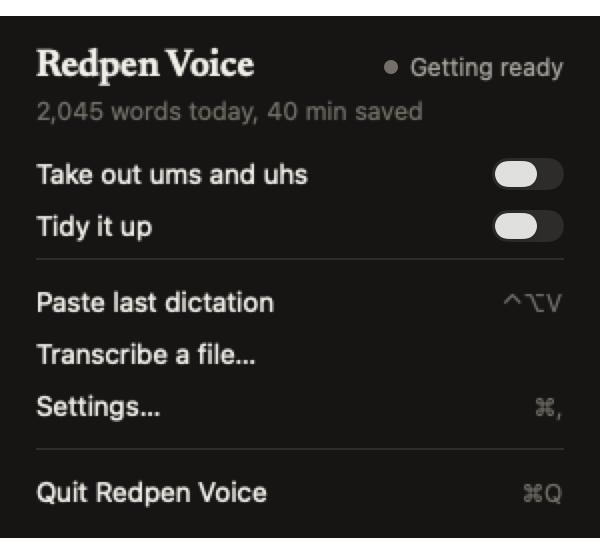
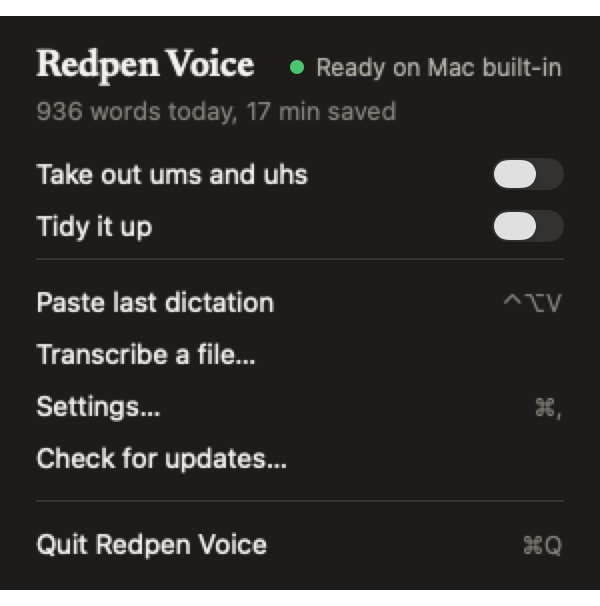
README shows the app to a first-time visitor: download link, the talking bar with live words, how it works in three pictured steps, the five bar styles, the menu, Settings and first run, all drawn from a sample setup; first run says Tidy it up like the rest of the app; Settings status names Instant;

diff --git a/Sources/RedpenVoice/main.swift b/Sources/RedpenVoice/main.swift
@@ -45,8 +45,13 @@ final class AppDelegate: NSObject, NSApplicationDelegate {
         // `--hud-demo [style]` shows the talking bar for four seconds with a fake voice, then two of writing, so its
         // look can be checked on screen.
         if let i = CommandLine.arguments.firstIndex(of: "--hud-demo") {
-            if i + 1 < CommandLine.arguments.count { hud.style = CommandLine.arguments[i + 1] }
+            if i + 1 < CommandLine.arguments.count, !CommandLine.arguments[i + 1].hasPrefix("--") { hud.style = CommandLine.arguments[i + 1] }
             hud.show("", level: true)
+            // `--hud-caption "text"`: words in the bar as you talk (Instant).
+            if let k = CommandLine.arguments.firstIndex(of: "--hud-caption"), k + 1 < CommandLine.arguments.count {
+                let text = CommandLine.arguments[k + 1]
+                DispatchQueue.main.asyncAfter(deadline: .now() + 0.3) { [hud] in hud.caption(text) }
+            }
             var t = 0.0
             Timer.scheduledTimer(withTimeInterval: 0.05, repeats: true) { [hud] _ in
                 t += 0.05
@@ -339,7 +344,10 @@ final class AppDelegate: NSObject, NSApplicationDelegate {
         if let i = CommandLine.arguments.firstIndex(of: "--settings-shot"), i + 1 < CommandLine.arguments.count {
             Ink.registerFonts()
             NSApp.appearance = NSAppearance(named: CommandLine.arguments.contains("dark") ? .darkAqua : .aqua)
-            let v = NSHostingView(rootView: SettingsView(model: SettingsModel(config: config, engine: engine) { _ in }))
+            let model = SettingsModel(config: config, engine: engine) { _ in }
+            // `ready`: drawn as a Mac where the chosen engine has finished loading (for the README pictures).
+            if CommandLine.arguments.contains("ready") { model.engineState = .ready }
+            let v = NSHostingView(rootView: SettingsView(model: model).buttonBorderShape(.roundedRectangle(radius: 4)))
             v.frame = NSRect(x: 0, y: 0, width: 540, height: 2000)
             let w = NSWindow(contentRect: v.frame, styleMask: [.borderless], backing: .buffered, defer: false)
             w.contentView = v; v.layoutSubtreeIfNeeded(); v.display()
@@ -361,17 +369,22 @@ final class AppDelegate: NSObject, NSApplicationDelegate {
             Ink.registerFonts()
             NSApp.appearance = NSAppearance(named: CommandLine.arguments.contains("dark") ? .darkAqua : .aqua)
             menu.state = menuState()
+            // `ready`: drawn as a set-up Mac (engine loaded, Fn key already set), for the README pictures.
+            if CommandLine.arguments.contains("ready") { menu.state.ready = true; menu.state.status = "Ready"; menu.state.warning = nil }
             let v = NSHostingView(rootView: MenuPanel(model: menu))
             v.frame = NSRect(origin: .zero, size: v.fittingSize)
-            let w = NSWindow(contentRect: v.frame, styleMask: [.borderless], backing: .buffered, defer: false)
-            w.contentView = v; v.layoutSubtreeIfNeeded(); v.display()
-            DispatchQueue.main.asyncAfter(deadline: .now() + 0.5) {
-                if let rep = v.bitmapImageRepForCachingDisplay(in: v.bounds) {
-                    v.cacheDisplay(in: v.bounds, to: rep)
-                    try? rep.representation(using: .png, properties: [:])?.write(to: URL(fileURLWithPath: CommandLine.arguments[i + 1]))
-                }
-                exit(0)
-            }
+            Self.shoot(v, to: CommandLine.arguments[i + 1])
+            return
+        }
+        // `--firstrun-shot out.png [dark]` draws the first-run window as a new Mac sees it, nothing allowed yet.
+        if let i = CommandLine.arguments.firstIndex(of: "--firstrun-shot"), i + 1 < CommandLine.arguments.count {
+            Ink.registerFonts()
+            NSApp.appearance = NSAppearance(named: CommandLine.arguments.contains("dark") ? .darkAqua : .aqua)
+            let model = FirstRunModel(config: config, engineState: { "ready" })
+            model.mic = false; model.access = false; model.fnOK = true
+            let v = NSHostingView(rootView: FirstRunView(model: model).buttonBorderShape(.roundedRectangle(radius: 4)))
+            v.frame = NSRect(origin: .zero, size: v.fittingSize)
+            Self.shoot(v, to: CommandLine.arguments[i + 1])
             return
         }
         if CommandLine.arguments.contains("--mics") {
@@ -470,6 +483,22 @@ final class AppDelegate: NSObject, NSApplicationDelegate {
     private var pendingMedia = PendingMedia()
 
     /// Calls back once the apps' sound has gone quiet (checked every tenth of a second), or after `tries` checks.
+    /// Draws a view to a PNG at twice its size, as a Retina screen shows it, then quits. For the README pictures.
+    static func shoot(_ v: NSView, to path: String) {
+        let w = NSWindow(contentRect: v.frame, styleMask: [.borderless], backing: .buffered, defer: false)
+        w.contentView = v; v.layoutSubtreeIfNeeded(); v.display()
+        DispatchQueue.main.asyncAfter(deadline: .now() + 0.5) {
+            if let rep = NSBitmapImageRep(bitmapDataPlanes: nil, pixelsWide: Int(v.bounds.width * 2), pixelsHigh: Int(v.bounds.height * 2),
+                                          bitsPerSample: 8, samplesPerPixel: 4, hasAlpha: true, isPlanar: false, colorSpaceName: .deviceRGB,
+                                          bytesPerRow: 0, bitsPerPixel: 0) {
+                rep.size = v.bounds.size
+                v.cacheDisplay(in: v.bounds, to: rep)
+                try? rep.representation(using: .png, properties: [:])?.write(to: URL(fileURLWithPath: path))
+            }
+            exit(0)
+        }
+    }
+
     nonisolated static func waitForQuiet(_ apps: [AudioObjectID], tries: Int, record: SoundTap.Recording? = nil, done: @escaping @Sendable (Date) -> Void) {
         SoundTap.loudness(of: apps, for: 0.1, record: record) { peak in
             if !MediaGate.isPlaying(peak: peak) || tries <= 0 { done(Date()) } else { waitForQuiet(apps, tries: tries - 1, record: record, done: done) }

diff --git a/Sources/RedpenVoice/FirstRun.swift b/Sources/RedpenVoice/FirstRun.swift
@@ -78,7 +78,7 @@ struct FirstRunView: View {
             HStack(spacing: 12) {
                 choice("Raw words", "What you said, as you said it.", "raw")
                 choice("Ums taken out", "Only sounds like “um” and “uh” go. Every word stays.", "noUms")
-                choice("Rewrite it", "Ums and false starts out, punctuation in. Your words stay.", "rewrite")
+                choice("Tidy it up", "Repeats and false starts out, punctuation in. It can change a word now and then.", "rewrite")
             }
             Text("You can flip this any time from the menu bar.").font(.system(size: 12)).foregroundStyle(.secondary)
 

diff --git a/Sources/RedpenVoice/SettingsWindow.swift b/Sources/RedpenVoice/SettingsWindow.swift
@@ -202,7 +202,7 @@ struct SettingsView: View {
     private var status: some View {
         let (word, live): (String, Bool) = {
             switch model.engineState {
-            case .ready: return ("Ready on " + (model.usesWhisper ? "Whisper" : "Mac built-in"), true)
+            case .ready: return ("Ready on " + (model.usesWhisper ? "Most accurate" : model.usesInstant ? "Instant" : "Mac built-in"), true)
             case .checking: return ("Getting ready", false)
             case .downloading(let p): return ("Downloading \(p)%", false)
             case .unsupported: return ("Language not supported", false)

diff --git a/README.md b/README.md
@@ -4,17 +4,45 @@ A free, private dictation app for macOS, from the Redpen family of writing tools
 
 Everything runs on your Mac. Your voice is never sent anywhere.
 
+**[Download Redpen Voice for Mac](https://github.com/cjaynewton/redpen-voice-mac/releases/latest)** (free, macOS 26, Apple silicon)
+
 <p align="center">
-<picture>
-  <source media="(prefers-color-scheme: dark)" srcset="docs/screenshots/menu-dark.png">
-  <img src="docs/screenshots/menu-light.png" alt="The menu bar panel: status, two switches, paste last dictation, transcribe a file, settings" width="300">
-</picture>
+  <img src="docs/screenshots/bar-live.png" alt="The talking bar at the bottom of the screen: a red pen line moving with your voice, the time, and your words as you say them" width="514">
 </p>
+
+## How it works
+
+1. **Hold Fn or right Option and talk.** A small bar at the bottom of the screen moves with your voice, so you know it's listening. With the Instant engine, your words show in it as you talk.
+2. **Let go.** The words go into the box you were typing in, in any app, without touching your clipboard.
+
+   <img src="docs/screenshots/bar-typed.png" alt="The bar after letting go: a green tick and Typed into Notes, where you started" width="287">
+
+3. **Moved somewhere else while it wrote?** The words never go into the wrong box. They wait until you're back in the one you started in, and Control-Option-V pastes them anywhere.
+
+   <img src="docs/screenshots/bar-saved.png" alt="The bar saying the words are saved for Chrome and go in when you are back in that box, or with Control-Option-V" width="460">
+
+Tap the key twice to keep talking with your hands free, and tap once more to finish.
+
+### Pick the bar you like
+
+<table>
+<tr>
+<td valign="top"><img src="docs/screenshots/bar-pen.png" alt="Red pen line" width="236"><br><b>Red pen line</b><br>A pen line that moves with your voice, and the time.</td>
+<td valign="top"><img src="docs/screenshots/bar-tape.png" alt="Rolling tape" width="270"><br><b>Rolling tape</b><br>Your voice scrolling past, with a recording dot.</td>
+</tr>
+<tr>
+<td valign="top"><img src="docs/screenshots/bar-bars.png" alt="Bars from the middle" width="162"><br><b>Bars from the middle</b><br>Bars that grow from the centre.</td>
+<td valign="top"><img src="docs/screenshots/bar-classic.png" alt="Classic bars" width="160"><br><b>Classic bars</b><br>A level meter, like a recorder.</td>
+</tr>
+<tr>
+<td valign="top"><img src="docs/screenshots/bar-dot.png" alt="Breathing dot" width="112"><br><b>Breathing dot</b><br>Just a dot that breathes, and the time.</td>
+<td valign="top">Or turn the bar off in Settings.</td>
+</tr>
+</table>
 
 ## What it does
 
-- **Hold to talk.** Hold Fn or right Option (or a key you pick), talk, let go. The words are typed at the cursor without touching your clipboard.
-- **Double-tap for hands-free.** Tap the key twice and keep talking with your hands free. Tap once more to finish.
+- **Any key you like.** Fn, right Option, or a key you pick in Settings.
 - **Words appear as you talk.** With Instant, your words show in the bar while you talk and go into the box the moment you let go. With Whisper, each stretch is written at your next pause, so a one-minute dictation lands about 2 seconds after you stop; in a text box the words are typed as you go.
 - **Your words, as said.** By default nothing is rewritten. Two switches change that:
   - **Take out ums and uhs** removes only the sounds. Every word stays.
@@ -33,10 +61,36 @@ Everything runs on your Mac. Your voice is never sent anywhere.
 - **Pauses your music and video** while you talk and starts them again after, only when something is actually playing.
 - **Transcribe a file.** Any audio or video file to text, saved beside the file.
 
+## The menu
+
+Click the Voice icon in the menu bar for today's words and the minutes they saved you, the two switches, Paste last dictation, Transcribe a file, Settings and Check for updates.
+
+<p align="center">
+<picture>
+  <source media="(prefers-color-scheme: dark)" srcset="docs/screenshots/menu-dark.png">
+  <img src="docs/screenshots/menu-light.png" alt="The menu bar panel: status, words today and minutes saved, two switches, paste last dictation, transcribe a file, settings, check for updates" width="300">
+</picture>
+</p>
+
+## Settings
+
+Every choice on one page: the engine, how your words come out, the key you talk with, your microphone, the bar, and your list of words it gets wrong. Each engine shows a real sentence it heard, so you can judge before you download.
+
 <p align="center">
 <picture>
   <source media="(prefers-color-scheme: dark)" srcset="docs/screenshots/settings-dark.png">
-  <img src="docs/screenshots/settings-light.png" alt="Settings: engine, what you get, talking, words it gets wrong" width="360">
+  <img src="docs/screenshots/settings-light.png" alt="Settings: engines named Most accurate, Instant and Mac built-in, what you get, talking, words it gets wrong, and what is kept on this Mac" width="360">
+</picture>
+</p>
+
+## The first time you open it
+
+One window asks how your words should come out and walks you through the two permissions it needs: the microphone, and Accessibility so it can type into other apps and see the Fn key. If you talk with Fn, it also checks the Mac's own Fn setting.
+
+<p align="center">
+<picture>
+  <source media="(prefers-color-scheme: dark)" srcset="docs/screenshots/firstrun-dark.png">
+  <img src="docs/screenshots/firstrun-light.png" alt="First run: raw words, ums taken out or tidy it up, then the microphone, Accessibility, the speech engine and the Fn key" width="480">
 </picture>
 </p>
 
